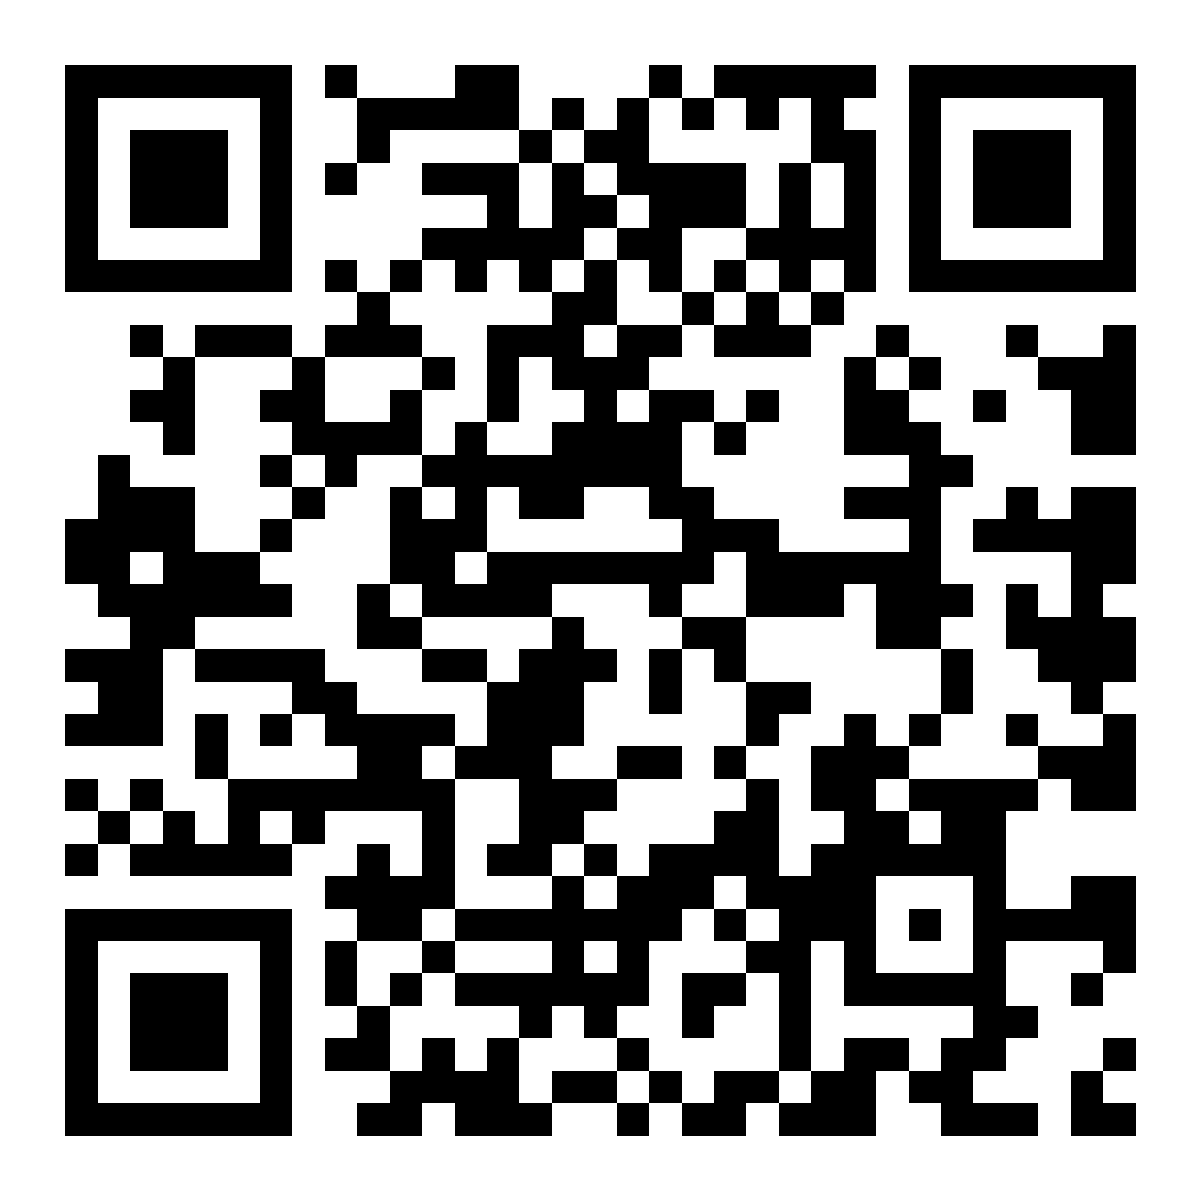
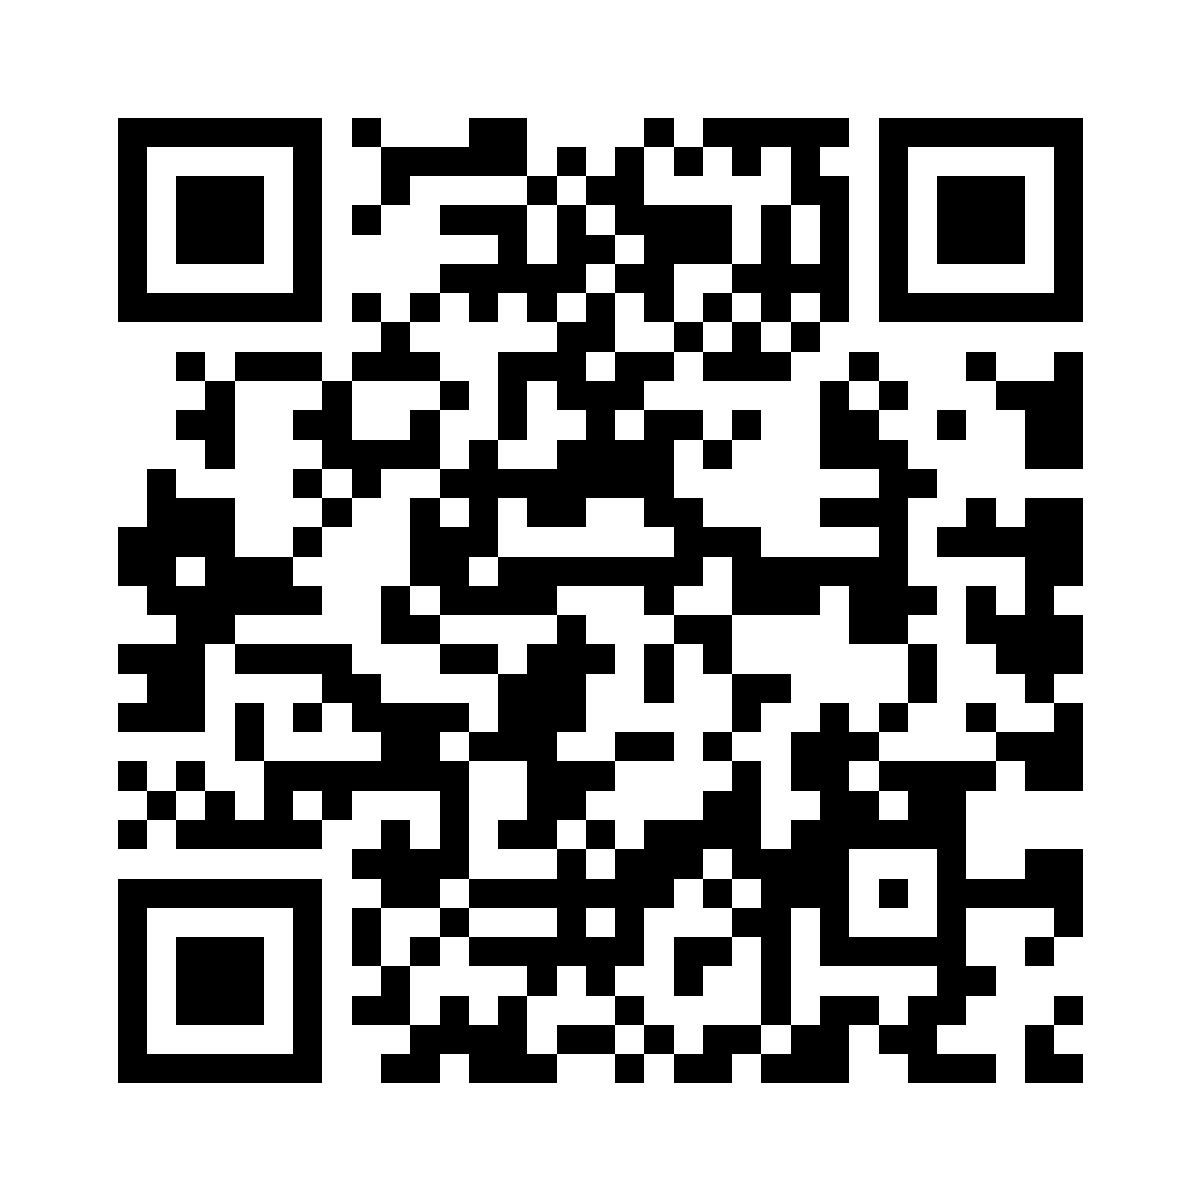
fix(signup): final-review fixes: email length, phone keyboards, changed marker, error handling, docs
Remove the child's personal email from the plan and swap gmail test fixtures
for example.com. Cap email at 254, turn off phone autocapitalise/correct on
name and email, mark re-signed-up rows as changed, add console note to the
thank-you page, redirect GET /signup, return a friendly 503 when D1 fails,
400 on a bad admin form, handle clipboard failure, narrow the Reason input,
keep a malformed Access team domain closed, disable preview URLs, widen the
QR quiet zone, add the Cloudflare 7-day restore note to the parent page, and
update the spec and the Task 9 and 10 plan text.

diff --git a/signup/test/pages.test.ts b/signup/test/pages.test.ts
@@ -2,7 +2,7 @@ import { describe, expect, it } from "vitest";
 import type { SignupRow } from "../src/db";
 import { esc } from "../src/html";
 import { parentsPage } from "../src/parents";
-import { adminPage, formPage, thanksPage, tooManyPage, whitelistCommand } from "../src/pages";
+import { adminPage, errorPage, formPage, thanksPage, tooManyPage, whitelistCommand } from "../src/pages";
 import { staticAsset } from "../src/static";
 
 const row: SignupRow = {
@@ -32,14 +32,22 @@ describe("formPage", () => {
   });
 
   it("re-fills typed values (escaped) but never the password, and shows errors", async () => {
-    const res = formPage({ mcName: `<b>`, email: "x@gmail.com", edition: "bedrock", consent: true }, { email: "Use your school email, ending in @esa.ac." }, 400);
+    const res = formPage({ mcName: `<b>`, email: "x@example.com", edition: "bedrock", consent: true }, { email: "Use your school email, ending in @esa.ac." }, 400);
     expect(res.status).toBe(400);
     const html = await res.text();
     expect(html).toContain('value="&lt;b&gt;"');
-    expect(html).toContain('value="x@gmail.com"');
+    expect(html).toContain('value="x@example.com"');
     expect(html).toMatch(/value="bedrock" checked/);
     expect(html).toContain("Use your school email, ending in @esa.ac.");
     expect(html).not.toMatch(/name="password"[^>]*value=/);
+  });
+
+  it("turns off phone auto-capitalise and correction on the name and email, and caps the email length", async () => {
+    const html = await formPage().text();
+    expect(html).toMatch(/<input id="mc_name"[^>]*autocapitalize="off"[^>]*autocorrect="off"[^>]*spellcheck="false"/);
+    expect(html).toMatch(/<input id="email"[^>]*autocapitalize="off"[^>]*autocorrect="off"[^>]*spellcheck="false"/);
+    expect(html).toMatch(/<input id="email"[^>]*maxlength="254"/);
+    expect(html).toMatch(/<input id="form_group"[^>]*autocapitalize="characters"/);
   });
 
   it("links the tick box to the parent note", async () => {
@@ -55,6 +63,19 @@ describe("thanksPage", () => {
     expect(html).toContain("Steve&lt;");
     expect(html).toContain("esa.myminecraft.party");
     expect(html).toContain("19132");
+  });
+
+  it("says the consoles cannot join", async () => {
+    const html = await thanksPage({ mcName: "Steve", edition: "java", email: "s@esa.ac", formGroup: "10B" }).text();
+    expect(html).toContain("Xbox");
+  });
+});
+
+describe("errorPage", () => {
+  it("is a friendly 503", async () => {
+    const res = errorPage();
+    expect(res.status).toBe(503);
+    expect(await res.text()).toContain("Something went wrong saving your sign-up. Please try again in a few minutes.");
   });
 });
 
@@ -87,6 +108,14 @@ describe("adminPage", () => {
     expect(html).toContain('name="status" value="added"');
     expect(html).toContain('name="status" value="refused"');
     expect(html).toContain("/static/admin.js");
+  });
+
+  it("marks an entry that was changed by signing up again", async () => {
+    const changed = await adminPage([{ ...row, updated_at: "2026-10-02T09:00:00.000Z" }], "new", "chris@example.com").text();
+    expect(changed).toContain("<strong");
+    expect(changed).toContain(">changed</strong>");
+    const same = await adminPage([row], "new", "chris@example.com").text();
+    expect(same).not.toContain(">changed<");
   });
 
   it("says when there is nothing to show", async () => {

diff --git a/signup/src/pages.ts b/signup/src/pages.ts
@@ -27,15 +27,15 @@ ${WHO_RUNS_IT}
   ${err("edition")}
 
   <label for="mc_name">Minecraft name</label>
-  <input id="mc_name" name="mc_name" type="text" value="${val(values.mcName)}" maxlength="16" autocomplete="off" required>
+  <input id="mc_name" name="mc_name" type="text" value="${val(values.mcName)}" maxlength="16" autocomplete="off" autocapitalize="off" autocorrect="off" spellcheck="false" required>
   ${err("mcName")}
 
   <label for="email">School email</label>
-  <input id="email" name="email" type="email" value="${val(values.email)}" placeholder="you@esa.ac" required>
+  <input id="email" name="email" type="email" value="${val(values.email)}" maxlength="254" autocapitalize="off" autocorrect="off" spellcheck="false" placeholder="you@esa.ac" required>
   ${err("email")}
 
   <label for="form_group">Form group</label>
-  <input id="form_group" name="form_group" type="text" value="${val(values.formGroup)}" maxlength="10" placeholder="e.g. 10B" required>
+  <input id="form_group" name="form_group" type="text" value="${val(values.formGroup)}" maxlength="10" autocapitalize="characters" placeholder="e.g. 10B" required>
   ${err("formGroup")}
 
   <label class="choice"><input type="checkbox" name="consent" value="yes"${values.consent ? " checked" : ""} required>
@@ -61,6 +61,7 @@ ${WHO_RUNS_IT}
 <ol><li>Multiplayer, then Add Server.</li><li>Server address: <code>esa.myminecraft.party</code></li></ol>
 <h2>Bedrock (phone, tablet, Windows or Chromebook)</h2>
 <ol><li>Play, then Servers, then Add Server.</li><li>Server address: <code>esa.myminecraft.party</code>, port <code>19132</code></li></ol>
+<p class="small">Xbox, PlayStation and Switch can't join.</p>
 <p class="small">Used the wrong name? Fill in the <a href="/">form</a> again with the same school email.</p>
 `,
   );
@@ -71,6 +72,14 @@ export function tooManyPage(): Response {
     "Too many tries",
     `<h1>Too many tries</h1><p>Lots of sign-ups have come from this connection in the last minute. Wait a minute, then <a href="/">try again</a>.</p>`,
     { status: 429 },
+  );
+}
+
+export function errorPage(): Response {
+  return page(
+    "Something went wrong",
+    `<h1>Something went wrong</h1><p>Something went wrong saving your sign-up. Please try again in a few minutes.</p><p><a href="/">Back to the form</a></p>`,
+    { status: 503 },
   );
 }
 
@@ -105,9 +114,12 @@ ${body}
 function adminRow(r: SignupRow, filter: Filter): string {
   const cmd = whitelistCommand(r);
   const hidden = `<input type="hidden" name="email" value="${esc(r.email)}"><input type="hidden" name="show" value="${filter}">`;
+  const changed = r.created_at !== r.updated_at
+    ? ` <strong title="Signed up again with this email: check the new name with the student in person">changed</strong>`
+    : "";
   const status = r.status === "refused" && r.note ? `refused: ${esc(r.note)}` : r.status;
   return `<tr>
-<td>${esc(r.mc_name)}</td>
+<td>${esc(r.mc_name)}${changed}</td>
 <td>${r.edition === "java" ? "Java" : "Bedrock"}</td>
 <td>${esc(r.form_group)}</td>
 <td>${esc(r.email)}</td>

diff --git a/signup/src/app.ts b/signup/src/app.ts
@@ -1,7 +1,7 @@
 import { listSignups, parseFilter, setStatus, upsertSignup } from "./db";
 import type { AppEnv } from "./env";
 import { parentsPage } from "./parents";
-import { adminPage, formPage, thanksPage, tooManyPage } from "./pages";
+import { adminPage, errorPage, formPage, thanksPage, tooManyPage } from "./pages";
 import { staticAsset } from "./static";
 import { passwordMatches, validateSignup, type RawForm } from "./validate";
 
@@ -23,6 +23,7 @@ export async function handle(request: Request, env: AppEnv, deps: Deps): Promise
     if (asset) return asset;
     if (pathname === "/") return formPage();
     if (pathname === "/parents") return parentsPage();
+    if (pathname === "/signup") return Response.redirect(`${url.origin}/`, 303);
   }
   if (method === "POST" && pathname === "/signup") return signup(request, env, deps);
   if (pathname === "/admin" || pathname.startsWith("/admin/")) return admin(request, env, deps, url);
@@ -61,7 +62,11 @@ async function signup(request: Request, env: AppEnv, deps: Deps): Promise<Respon
     return formPage(result.values, errors, 400);
   }
 
-  await upsertSignup(env.DB, result.signup, deps.now());
+  try {
+    await upsertSignup(env.DB, result.signup, deps.now());
+  } catch {
+    return errorPage();
+  }
   return thanksPage(result.signup);
 }
 
@@ -79,7 +84,12 @@ async function admin(request: Request, env: AppEnv, deps: Deps, url: URL): Promi
   if (request.method === "POST" && url.pathname === "/admin/status") {
     // Browsers send Origin on form posts; anything else did not come from this page.
     if (request.headers.get("Origin") !== url.origin) return forbidden();
-    const form = await request.formData();
+    let form: FormData;
+    try {
+      form = await request.formData();
+    } catch {
+      return new Response("Bad request", { status: 400 });
+    }
     const status = form.get("status");
     if (status !== "added" && status !== "refused") return new Response("Bad request", { status: 400 });
     const target = String(form.get("email") ?? "");

diff --git a/signup/test/app-public.test.ts b/signup/test/app-public.test.ts
@@ -32,6 +32,11 @@ describe("GET pages", () => {
     expect(res.status).toBe(200);
     expect(await res.text()).toContain('action="/signup"');
   });
+  it("redirects GET /signup to the form", async () => {
+    const res = await get("/signup");
+    expect(res.status).toBe(303);
+    expect(res.headers.get("Location")).toBe(`${ORIGIN}/`);
+  });
   it("serves the parent note", async () => expect((await get("/parents")).status).toBe(200));
   it("serves the stylesheet", async () => expect((await get("/static/style.css")).status).toBe(200));
   it("404s anything else", async () => expect((await get("/nope")).status).toBe(404));
@@ -55,11 +60,11 @@ describe("POST /signup", () => {
   });
 
   it("shows field errors and keeps what was typed", async () => {
-    const res = await post({ ...good, email: "steve@gmail.com" });
+    const res = await post({ ...good, email: "steve@example.com" });
     expect(res.status).toBe(400);
     const html = await res.text();
     expect(html).toContain("ending in @esa.ac");
-    expect(html).toContain('value="steve@gmail.com"');
+    expect(html).toContain('value="steve@example.com"');
     expect(await listSignups(env.DB, "all")).toEqual([]);
   });
 
@@ -90,6 +95,17 @@ describe("POST /signup", () => {
       deps,
     );
     expect(res.status).toBe(400);
+  });
+
+  it("returns a friendly 503 when the database fails", async () => {
+    const brokenDb = { prepare: () => { throw new Error("D1 is down"); } } as unknown as D1Database;
+    const res = await handle(
+      new Request(`${ORIGIN}/signup`, { method: "POST", body: new URLSearchParams(good) }),
+      { ...testEnv, DB: brokenDb },
+      deps,
+    );
+    expect(res.status).toBe(503);
+    expect(await res.text()).toContain("Something went wrong saving your sign-up");
   });
 
   it("returns 400 for a body that is not a form", async () => {

diff --git a/signup/test/validate.test.ts b/signup/test/validate.test.ts
@@ -64,7 +64,7 @@ describe("validateSignup", () => {
   });
 
   it.each([
-    ["other domain", "student@gmail.com"],
+    ["other domain", "student@example.com"],
     ["lookalike domain", "student@esa.ac.evil.com"],
     ["subdomain", "student@mail.esa.ac"],
     ["no local part", "@esa.ac"],
@@ -72,6 +72,14 @@ describe("validateSignup", () => {
   ])("refuses the email: %s", (_label, email) => {
     const r = validateSignup({ ...good, email });
     expect(!r.ok && r.errors.email).toMatch(/@esa\.ac/);
+  });
+
+  it("refuses an email longer than 254 characters and accepts a normal one", () => {
+    const long = "a".repeat(255 - "@esa.ac".length) + "@esa.ac";
+    expect(long).toHaveLength(255);
+    const r = validateSignup({ ...good, email: long });
+    expect(!r.ok && r.errors.email).toMatch(/@esa.ac/);
+    expect(validateSignup({ ...good, email: "steve@esa.ac" }).ok).toBe(true);
   });
 
   it("refuses a blank or long form group", () => {
@@ -87,8 +95,8 @@ describe("validateSignup", () => {
   });
 
   it("keeps the typed values when refusing", () => {
-    const r = validateSignup({ ...good, email: "x@gmail.com" });
-    expect(r.values).toEqual({ mcName: "Steve_123", edition: "java", email: "x@gmail.com", formGroup: "10B", consent: true });
+    const r = validateSignup({ ...good, email: "x@example.com" });
+    expect(r.values).toEqual({ mcName: "Steve_123", edition: "java", email: "x@example.com", formGroup: "10B", consent: true });
   });
 });
 

diff --git a/signup/src/static.ts b/signup/src/static.ts
@@ -29,15 +29,19 @@ nav a[aria-current] { font-weight: 700; text-decoration: none; color: var(--ink)
 table { border-collapse: collapse; width: 100%; background: var(--card); }
 th, td { text-align: left; padding: 8px; border-bottom: 1px solid var(--line); vertical-align: top; font-size: 0.95rem; }
 td form { background: none; border: 0; padding: 0; display: flex; gap: 6px; flex-wrap: wrap; }
-td form input { width: 10rem; padding: 6px 8px; }
+td form input[type=text] { width: 10rem; padding: 6px 8px; }
 `;
 
 export const ADMIN_JS = `
 document.addEventListener("click", async (event) => {
   const button = event.target.closest("button.copy");
   if (!button) return;
-  await navigator.clipboard.writeText(button.dataset.copy);
-  button.textContent = "Copied";
+  try {
+    await navigator.clipboard.writeText(button.dataset.copy);
+    button.textContent = "Copied";
+  } catch {
+    button.textContent = "Copy failed";
+  }
   setTimeout(() => { button.textContent = "Copy"; }, 1500);
 });
 `;

diff --git a/signup/src/access.ts b/signup/src/access.ts
@@ -12,11 +12,11 @@ let jwksDomain = "";
 export async function verifyAccess(request: Request, env: AppEnv): Promise<string | null> {
   const token = request.headers.get("Cf-Access-Jwt-Assertion");
   if (!token || !env.ACCESS_TEAM_DOMAIN || !env.ACCESS_AUD) return null;
-  if (!jwks || jwksDomain !== env.ACCESS_TEAM_DOMAIN) {
-    jwks = createRemoteJWKSet(new URL(`${env.ACCESS_TEAM_DOMAIN}/cdn-cgi/access/certs`));
-    jwksDomain = env.ACCESS_TEAM_DOMAIN;
-  }
   try {
+    if (!jwks || jwksDomain !== env.ACCESS_TEAM_DOMAIN) {
+      jwks = createRemoteJWKSet(new URL(`${env.ACCESS_TEAM_DOMAIN}/cdn-cgi/access/certs`));
+      jwksDomain = env.ACCESS_TEAM_DOMAIN;
+    }
     const { payload } = await jwtVerify(token, jwks, {
       issuer: env.ACCESS_TEAM_DOMAIN,
       audience: env.ACCESS_AUD,

diff --git a/signup/test/app-admin.test.ts b/signup/test/app-admin.test.ts
@@ -82,6 +82,15 @@ describe("POST /admin/status", () => {
     expect((await handle(setStatusRequest({ email: "steve@esa.ac", status: "added" }, null), testEnv, admin)).status).toBe(403);
   });
 
+  it("returns 400 for a body that is not a form", async () => {
+    const req = new Request(`${ORIGIN}/admin/status`, {
+      method: "POST",
+      body: "{}",
+      headers: { Origin: ORIGIN, "Content-Type": "application/json" },
+    });
+    expect((await handle(req, testEnv, admin)).status).toBe(400);
+  });
+
   it("refuses an unknown status", async () => {
     expect((await handle(setStatusRequest({ email: "steve@esa.ac", status: "new" }), testEnv, admin)).status).toBe(400);
   });

diff --git a/signup/src/parents.ts b/signup/src/parents.ts
@@ -38,7 +38,8 @@ only in the public chat that everyone can see, never in private messages.</p>
     damage can be undone. Kept while the world exists.</li>
   <li><strong>Play time</strong> per player, from Minecraft's own statistics.</li>
   <li><strong>Sign-up details</strong> (Minecraft name, school email, form group):
-    deleted 30 days after your child is added.</li>
+    deleted 30 days after your child is added (Cloudflare can restore deleted
+    data for up to 7 days after that).</li>
 </ul>
 <p>Nothing is shared with anyone else, and nothing is used for advertising.</p>
 

diff --git a/signup/test/access.test.ts b/signup/test/access.test.ts
@@ -21,6 +21,9 @@ describe("verifyAccess", () => {
     expect(await verifyAccess(withToken("a.b.c"), { ...base, ACCESS_AUD: "" })).toBeNull();
     expect(await verifyAccess(withToken("a.b.c"), { ...base, ACCESS_TEAM_DOMAIN: "" })).toBeNull();
   });
+  it("refuses, rather than throws, when the team domain is malformed", async () => {
+    expect(await verifyAccess(withToken("a.b.c"), { ...base, ACCESS_TEAM_DOMAIN: "not a url" })).toBeNull();
+  });
   it("refuses a malformed token", async () => {
     expect(await verifyAccess(withToken("not-a-jwt"), base)).toBeNull();
   });

diff --git a/signup/src/validate.ts b/signup/src/validate.ts
@@ -50,7 +50,7 @@ export function validateSignup(raw: RawForm): Validation {
   } else if (values.edition === "bedrock" && (name.length > 16 || !BEDROCK_NAME.test(name))) {
     errors.mcName = "A Bedrock name is up to 16 letters or numbers, with single spaces.";
   }
-  if (!ESA_EMAIL.test(values.email!)) {
+  if (values.email!.length > 254 || !ESA_EMAIL.test(values.email!)) {
     errors.email = "Use your school email, ending in @esa.ac.";
   }
   if (values.formGroup!.length < 1 || values.formGroup!.length > 10) {

diff --git a/signup/test/index.test.ts b/signup/test/index.test.ts
@@ -12,7 +12,7 @@ describe("worker", () => {
     expect(res.status).toBe(200);
   });
 
-  it("keeps /admin closed while Access is not configured", async () => {
+  it("refuses /admin with a malformed Access token", async () => {
     const res = await worker.fetch(
       new Request("https://join.myminecraft.party/admin", { headers: { "Cf-Access-Jwt-Assertion": "a.b.c" } }),
       appEnv,
